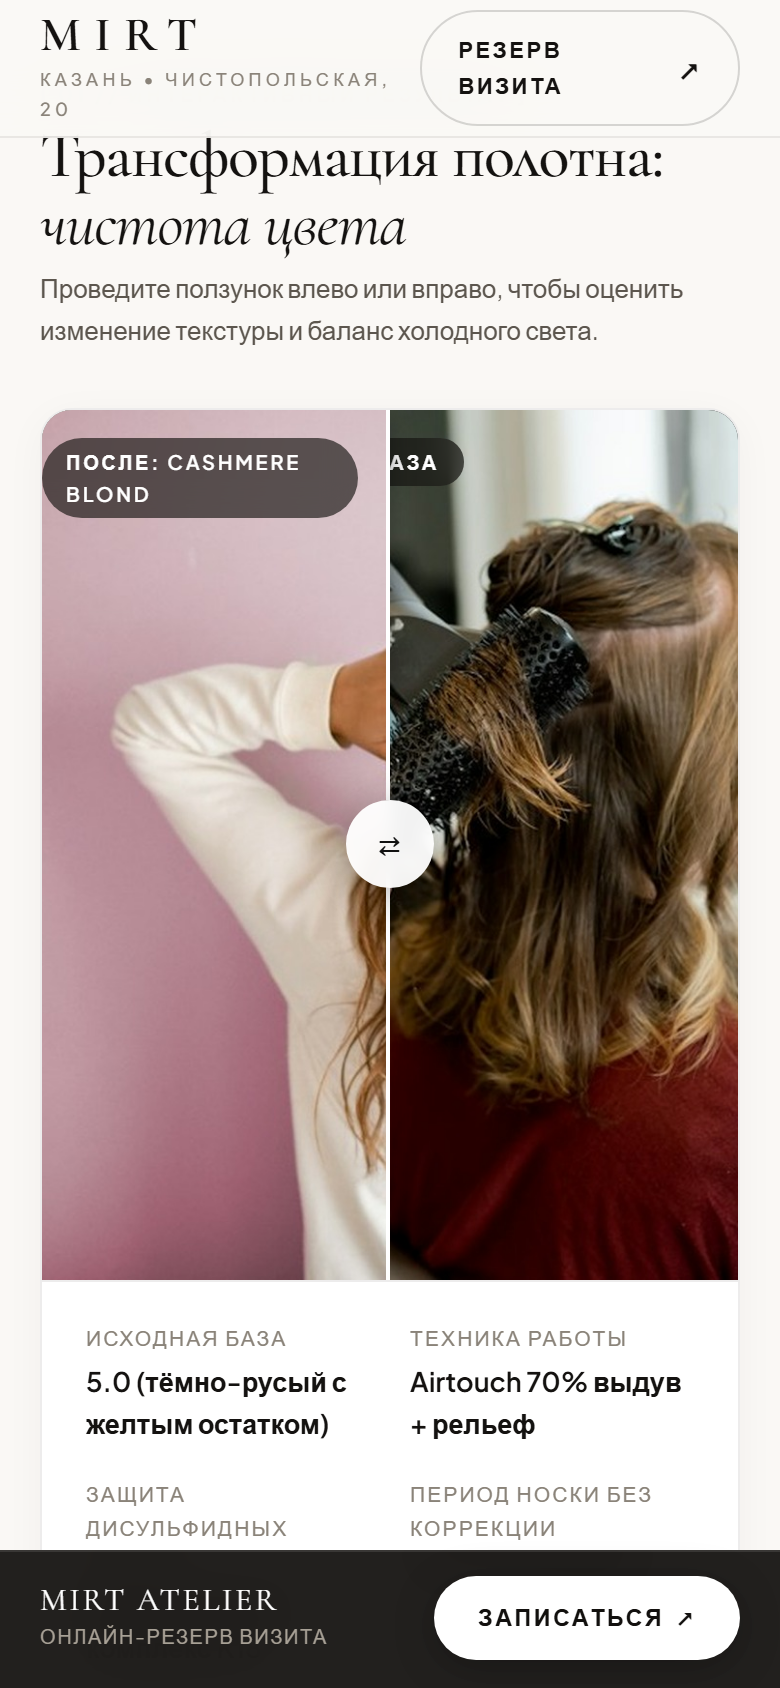
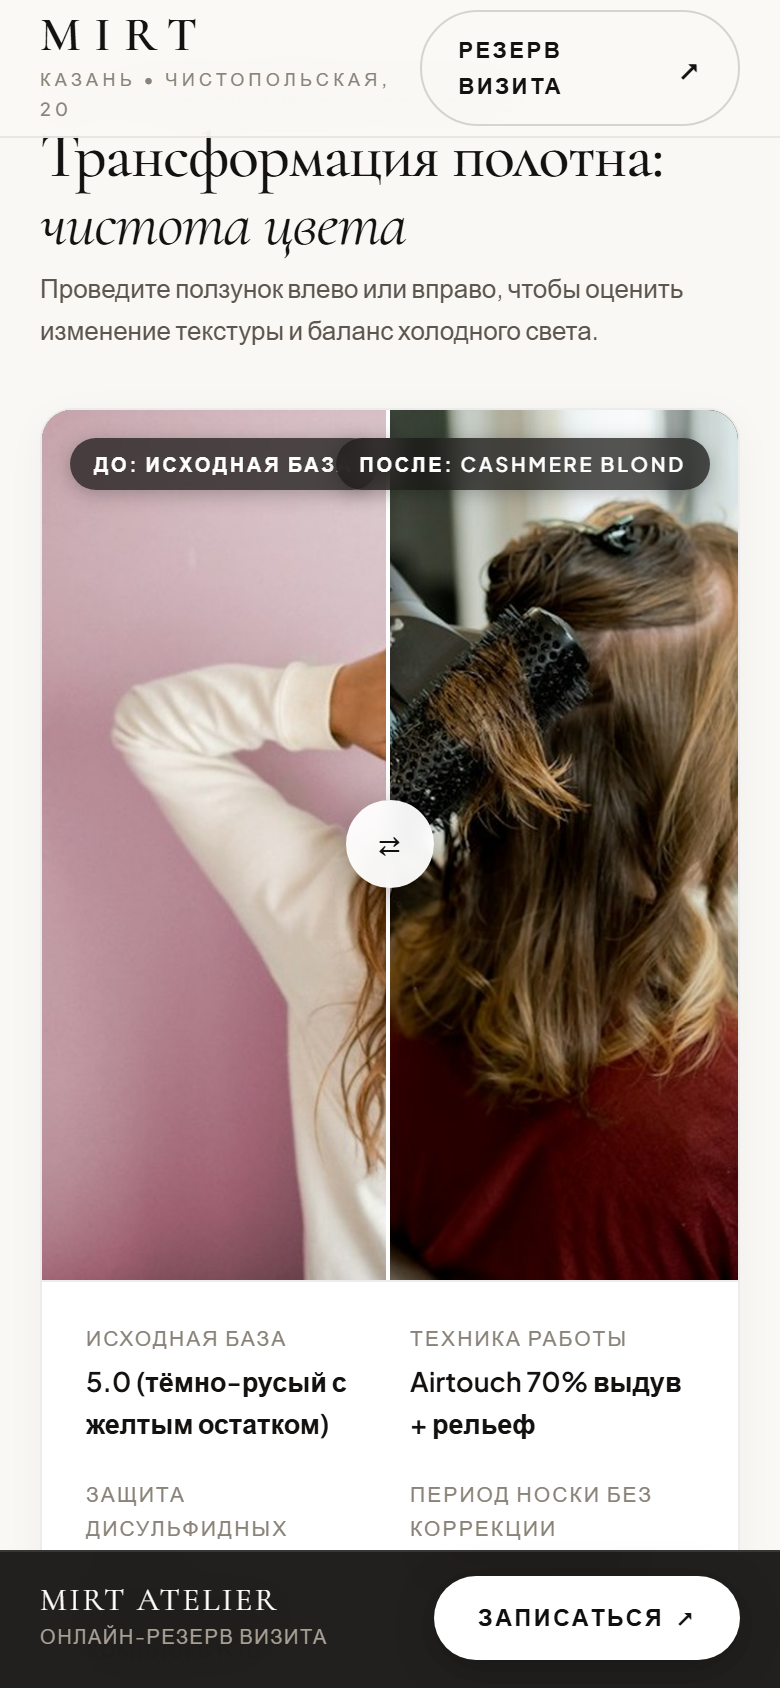
fix: pin both before and after slider badges statically to top corners

Changed region(s): [[0.0308, 0.2464, 0.9231, 0.3081]]

diff --git a/mirt/index.html b/mirt/index.html
@@ -383,8 +383,9 @@
     .slider-badge-label {
       position: absolute;
       top: 14px;
-      padding: 4px 12px;
-      background: rgba(20, 18, 16, 0.65);
+      z-index: 25;
+      padding: 5px 12px;
+      background: rgba(20, 18, 16, 0.72);
       backdrop-filter: blur(8px);
       -webkit-backdrop-filter: blur(8px);
       color: #FFF;
@@ -394,6 +395,7 @@
       text-transform: uppercase;
       border-radius: var(--radius-full);
       pointer-events: none;
+      box-shadow: 0 2px 10px rgba(0,0,0,0.25);
     }
     .badge-left { left: 14px; }
     .badge-right { right: 14px; }
@@ -848,13 +850,15 @@
         <div class="comparison-slider-wrap" id="sliderWrap">
           <!-- Before (Full Background) -->
           <img src="images/slider_before.jpg" alt="До окрашивания" class="slider-img">
-          <div class="slider-badge-label badge-left">ДО: НЕРАВНОМЕРНАЯ БАЗА</div>
 
           <!-- After (Curtain Wrapper) -->
           <div class="slider-after-wrap" id="sliderAfter">
             <img src="images/slider_after.jpg" alt="После Airtouch Mirt" id="sliderAfterImg">
-            <div class="slider-badge-label badge-right">ПОСЛЕ: CASHMERE BLOND</div>
           </div>
+
+          <!-- Static Pinned Badges (Both pinned to top corners, neither moves) -->
+          <div class="slider-badge-label badge-left">ДО: ИСХОДНАЯ БАЗА</div>
+          <div class="slider-badge-label badge-right">ПОСЛЕ: CASHMERE BLOND</div>
 
           <!-- Drag Handle -->
           <div class="slider-handle-line" id="sliderHandle">
